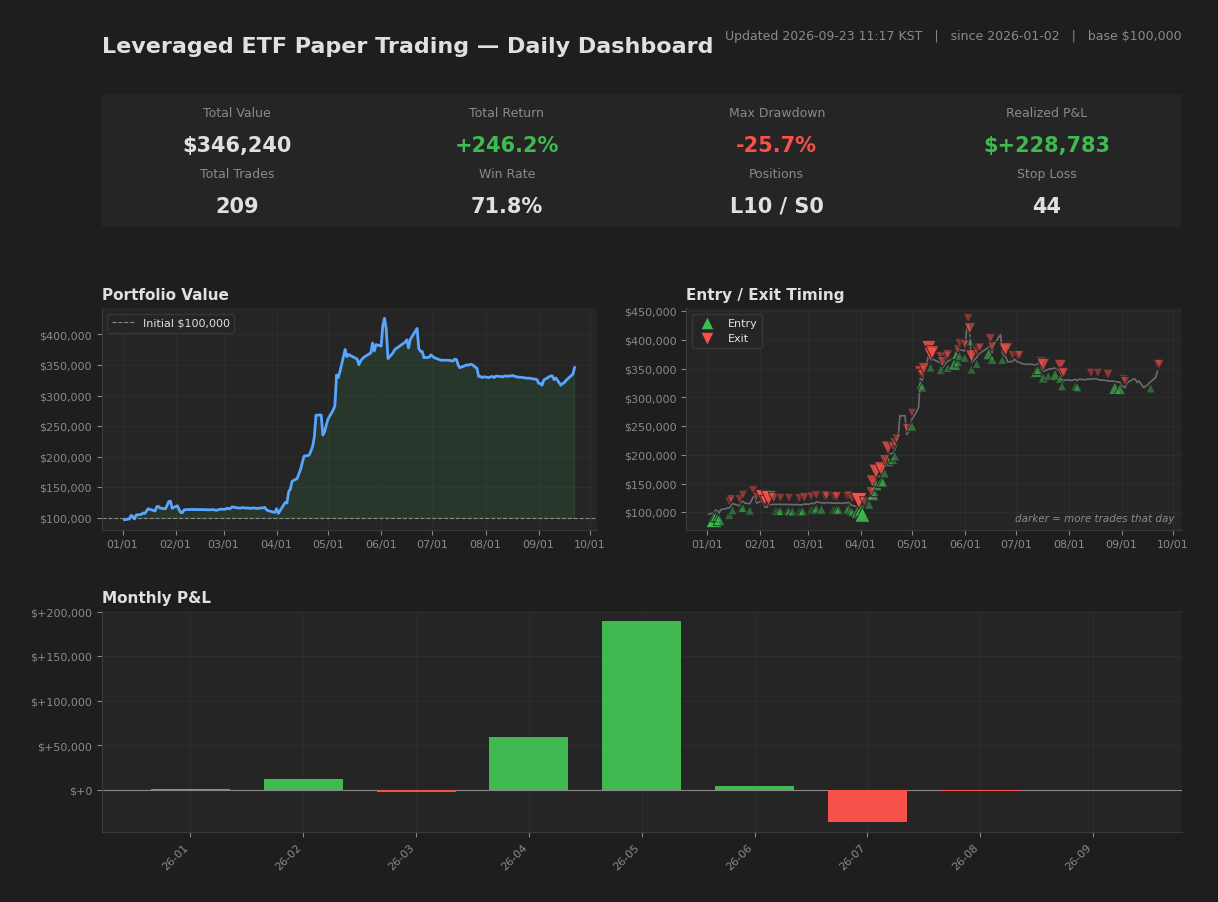
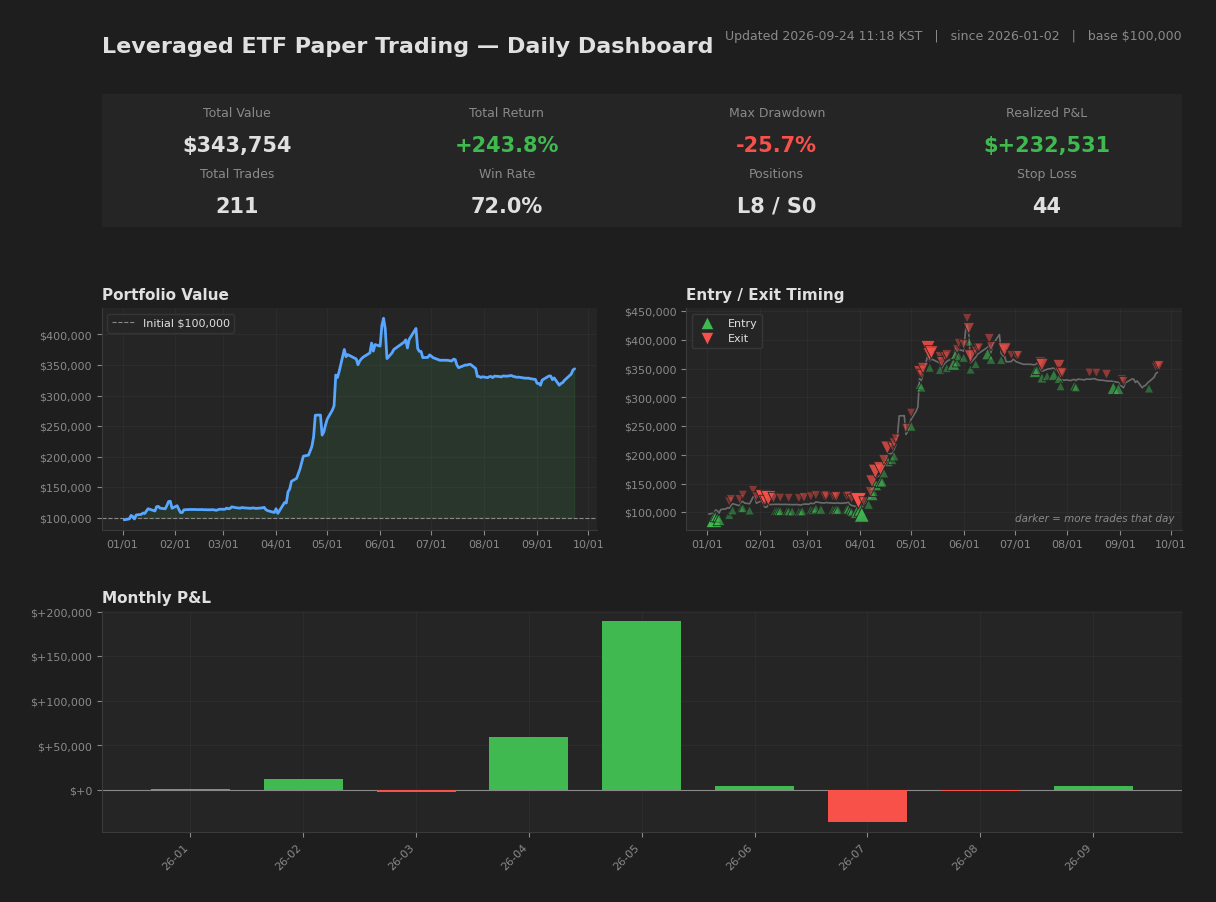
[2026-09-23] Close
Portfolio: $343,754 (+243.8%)
Positions: 8 (L8 S0)
Cumulative: 152/211 wins, P&L: $+232,531
Exits: 2 (P&L: $+1,755)

diff --git a/README.md b/README.md
@@ -20,7 +20,7 @@ Drawdown control vs. benchmark. While the benchmark experienced a maximum drawdo
 
 <!-- METRICS:BEGIN (auto-generated by snapshot_backup.py after each market close; do not edit by hand) -->
 - Maximum drawdown: **-25.68%** (peak 2026-06-03 -> trough 2026-09-03, recovered since)
-- As of **2026-09-22** market close. Updated automatically after each close.
+- As of **2026-09-23** market close. Updated automatically after each close.
 <!-- METRICS:END -->
 
 Execution costs. Because the strategy holds positions over multi-day periods with low turnover, the impact of slippage and commissions is designed to be limited rather than a primary driver of results.
